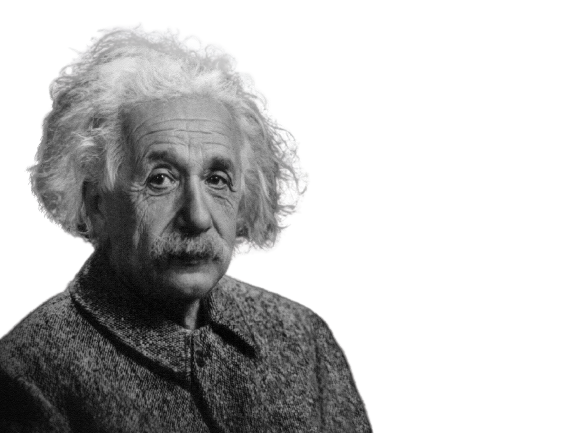
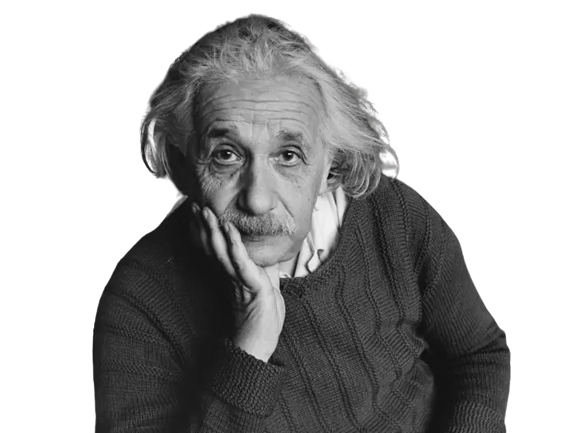
added home page header

diff --git a/pages/home.jsx b/pages/home.jsx
@@ -1,39 +1,52 @@
-import { AppShell, useMantineColorScheme } from "@mantine/core";
+import { useState, useEffect } from "react";
+import { AppShell, Divider, useMantineColorScheme } from "@mantine/core";
 import Head from "next/head";
 import AppHeader from "../components/AppHeader/AppHeader";
 import AppNavbar from "../components/AppNavbar/AppNavbar";
-import { app } from "../firebase/firebaseConfig";
 import { getAuth, onAuthStateChanged } from "firebase/auth";
 import { useRouter } from "next/router";
 import HomePageHeader from "../components/HomePage/HomePageHeader";
+import AppLoader from "../components/AppLoader/AppLoader";
 const Home = () => {
   const { colorScheme } = useMantineColorScheme();
+  const [userLoggedIn, setUserLoggedIn] = useState(false);
+
   const router = useRouter();
   const auth = getAuth();
-  onAuthStateChanged(auth, (user) => {
-    if (!user) {
-      router.replace("/");
-    }
-  });
+
+  useEffect(() => {
+    onAuthStateChanged(auth, (user) => {
+      if (!user) {
+        router.replace("/");
+      } else {
+        setUserLoggedIn(true);
+      }
+    });
+  }, [auth]);
   return (
     <>
       <Head>
         <title>Home | Tuster</title>
       </Head>
-      <AppShell
-        navbarOffsetBreakpoint="md"
-        fixed
-        header={<AppHeader />}
-        navbar={<AppNavbar />}
-      >
-        <div
-          className={
-            colorScheme === "dark" ? "dark w-full h-full" : "w-full h-full"
-          }
+      {userLoggedIn && (
+        <AppShell
+          padding={0}
+          navbarOffsetBreakpoint="md"
+          fixed
+          header={<AppHeader />}
+          navbar={<AppNavbar />}
         >
-          <HomePageHeader />
-        </div>
-      </AppShell>
+          <div
+            className={
+              colorScheme === "dark" ? "dark w-full h-full" : "w-full h-full"
+            }
+          >
+            <HomePageHeader />
+            <Divider my="sm" className="p-0 m-0" />
+          </div>
+        </AppShell>
+      )}
+      {!userLoggedIn && <AppLoader />}
     </>
   );
 };

diff --git a/components/HomePage/HomePageHeader.jsx b/components/HomePage/HomePageHeader.jsx
@@ -1,5 +1,31 @@
+import albertEinstein from "../../assets/imgs/albertEinstein.png";
+import Image from "next/image";
+import { Blockquote } from "@mantine/core";
+
 const HomePageHeader = () => {
-  return <header>this is the header</header>;
+  return (
+    <header className="flex flex-col sm:flex-row items-center justify-center xl:justify-between ">
+      <div className="w-2/3 sm:w-1/2 xl:w-2/5 2xl:w-1/3">
+        <Image
+          sizes="50vw"
+          src={albertEinstein}
+          alt="Albert Einstein"
+          layout="responsive"
+          placeholder="blur"
+        />
+      </div>
+      <div className="mt-4 xl:w-1/2">
+        <Blockquote
+          cite="- Albert Einstein"
+          classNames={{
+            body: "text-sm sm:text-base lg:text-lg xl:text-xl 2xl:text-2xl",
+          }}
+        >
+          Intellectual growth should commence at birth and ease only at death
+        </Blockquote>
+      </div>
+    </header>
+  );
 };
 
 export default HomePageHeader;

diff --git a/components/LandingPage/LandingPageSignUpModal/utils/submitHandler.js b/components/LandingPage/LandingPageSignUpModal/utils/submitHandler.js
@@ -52,9 +52,9 @@ const submitHandler = async ({
           },
         });
         showNotification({
+          autoClose: 3000,
           title: "Sign Up Successful",
           message: "You have successfully signed up!",
-          autoClose: 2000,
           color: "teal",
         });
       }
@@ -65,9 +65,9 @@ const submitHandler = async ({
           formData.password
         );
         showNotification({
+          autoClose: 3000,
           title: "Sign In Successful",
           message: "happy to see you again!",
-          autoClose: 2000,
           color: "teal",
         });
       }

diff --git a/pages/_app.jsx b/pages/_app.jsx
@@ -5,7 +5,7 @@ import { useHotkeys, useLocalStorage } from "@mantine/hooks";
 import Head from "next/head";
 import { store } from "../context/store";
 import { Provider } from "react-redux";
-
+import { app } from "../firebase/firebaseConfig";
 function MyApp({ Component, pageProps }) {
   const [colorScheme, setColorScheme] = useLocalStorage({
     key: "mantine-color-scheme",

diff --git a/pages/index.jsx b/pages/index.jsx
@@ -26,11 +26,11 @@ export default function LandingPage() {
     });
   }, [auth]);
 
-  // useEffect(() => {
-  //   signOut(auth)
-  //     .then((res) => {})
-  //     .catch((err) => console.log(err));
-  // }, []);
+  useEffect(() => {
+    signOut(auth)
+      .then((res) => {})
+      .catch((err) => console.log(err));
+  }, []);
 
   return (
     <>
